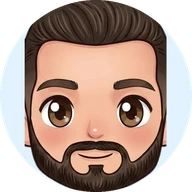
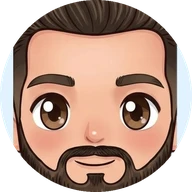
Gastos compartidos: caras un poco más lejos
Claude-Session: https://claude.ai/code/session_01LMZK851QBDu7shv4jjJpii

diff --git a/compartidos.html b/compartidos.html
@@ -205,7 +205,7 @@ const NOM=(()=>{const n=(rd('ahorros_v1',{})||{}).names||{};return {j:n.j||'Juli
    Cada mes hasta el que viene (por ejemplo, en enero se ve febrero pero no marzo) se crea solo el gasto de la serie con id "serie_AAAA-MM", copiando descripción y monto del mes anterior
    y sin quién lo pagó; así si los dos celus lo crean a la vez, es el mismo y no se duplica. */
 let G=rd(LS,{})||{},S=rd(LS+'_s',{})||{};
-const FOTO={j:'img/avatar-juli.webp?v=3',a:'img/avatar-ale.webp?v=3'};
+const FOTO={j:'img/avatar-juli.webp?v=4',a:'img/avatar-ale.webp?v=4'};
 const mesDe=f=>f.slice(0,7);
 const mesActual=()=>hoyISO().slice(0,7);
 /* el mes que viene (AAAA-MM): los fijos se precargan hasta ahí nomás, para no llenar la base de meses lejanos */
